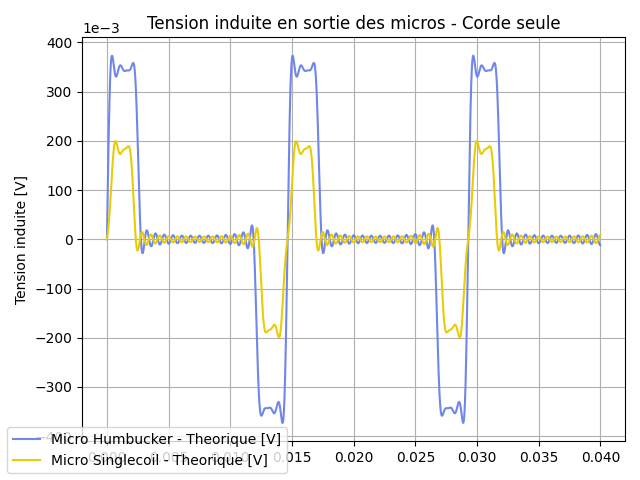
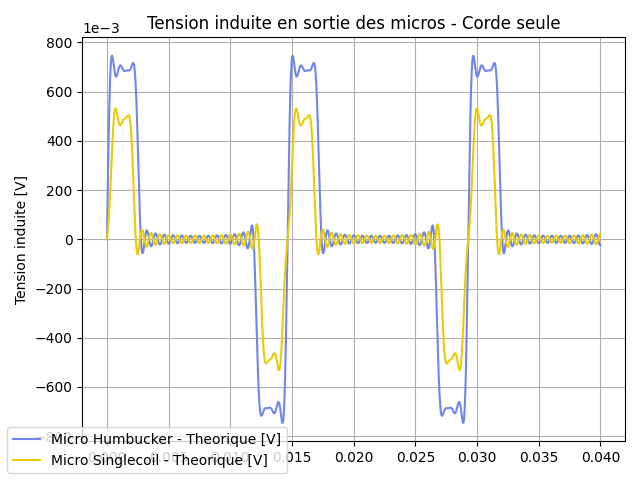
20 11 3

diff --git a/Python/Code/Modele_fem.py b/Python/Code/Modele_fem.py
@@ -37,24 +37,30 @@ S = 7*10**(-4)
 RCC_s = 8.92*10**3      #A verifier ???
 lmoy_s = 0.147
 N_s = int(RCC_s*np.pi*d**2 / (4*rho*lmoy_s))
-N_s = 3000
+N_s = 8000
 #* Parametre Micro Humbucker
 RCC_h = 4.52*10**3
 lmoy_h = lmoy_s            #A verifier ???
-N_h = int(RCC_h*np.pi*d**2 / (8*rho*lmoy_h)) 
+N_h = 2*int(RCC_h*np.pi*d**2 / (8*rho*lmoy_h)) 
 #* Parametre Champ parasite
 Nbob = 95
 R = 0.130/2
-Lbob = 1           #A verifier ???
+Lbob = 1                #A verifier ???
 Rbob = 10               #A verifier ???
 fB = 50
 U0 = 10
-B0 = (0.8)**1.5 * (mu0*Nbob/R) * (U0/np.sqrt(Rbob**2 + (2*np.pi*fB*Lbob)**2))   #= +- 20 micro T
+I0 = 7                  #A verifier ???
 #* Parametre variable
 A = 35*10**(-4)          #A verifier ???
 x0 = 0.140
 F = 68.3
 T = 4*mu*(L*F)**2
+#* Couleurs graphiques
+Color_c = "#505050"
+Color_h_test = "#3344CB"
+Color_s_test = "#CAA307"
+Color_h = "#7086EA"
+Color_s = "#EACB07"
 
 # Affichage des variables avec unites
 print("Constantes initialisees.")
@@ -82,7 +88,7 @@ params = [
     ("Rbob", Rbob, "Ohm", "Resistance bobines Helmholtz"),
     ("fB", fB, "Hz", "Frequence du champ parasite"),
     ("U0", U0, "V", "Tension bobines Helmholtz"),
-    ("B0", B0, "T", "Amplitude champ magnetique parasite"),
+    #("B0", B0, "T", "Amplitude champ magnetique parasite"),
     ("A", A, "m", "Amplitude initiale de vibration"),
     ("x0", x0, "m", "Origine de la perturbation"),
     ("F", F, "Hz", "Frequence de la note jouee"),
@@ -149,30 +155,30 @@ def fem_humbucker(n: int, N: int, x1: float, x2: float, t: np.ndarray) -> np.nda
 
     return N*S*dBdy*s
 
-def B(r:float, f: float, t: np.ndarray) -> np.ndarray:
-    return B0*np.sin(2*np.pi*f*t)
+def B(x:float, f: float, t: np.ndarray) -> np.ndarray:
+    return (Nbob*mu0*Rbob**2)/2 * (1 / (Rbob**2 + (x-Rbob/2)**2)**(3/2) + 1 / (Rbob**2 + (x+Rbob/2)**2)**(3/2)) * I0 * np.sin(2*np.pi*f*t)
 
-def dBdt(r:float, f: float, t: np.ndarray) -> np.ndarray:
-    return B0*2*np.pi*f*np.cos(2*np.pi*f*t)
+def dBdt(x:float, f: float, t: np.ndarray) -> np.ndarray:
+    return (Nbob*mu0*Rbob**2)/2 * (1 / (Rbob**2 + (x-Rbob/2)**2)**(3/2) + 1 / (Rbob**2 + (x+Rbob/2)**2)**(3/2))*2*I0*np.pi*f*np.cos(2*np.pi*f*t)
 
 def fem_par_s(N:int, xm: float, f:float, t: np.ndarray) -> np.ndarray:
     return -N*S*dBdt(0, f, t)
 
 def fem_par_h(N:int, x1: float, x2: float, f:float, t: np.ndarray) -> np.ndarray:
-    return -N*S*(dBdt(x1, f, t) - dBdt(x2, f, t))
+    return -N*S*(dBdt(0, f, t) - dBdt(abs(x2-x1), f, t))
 
                                             #!######################!#
                                             #!       Resultats      !#
                                             #!######################!#
-Color_c = "#505050"
-Color_h_test = "#3344CB"
-Color_s_test = "#CAA307"
-
-Color_h = "#7086EA"
-Color_s = "#EACB07"
 
 if __name__ == "__main__":
     print("Lecture des donnees de test...")
+
+    List_Ipar = np.linspace(1, 7, 7)
+    List_amp_h_th = np.zeros(7)
+    List_amp_h_test = [0, 40*10**-3, 0, 0, 0, 0, 0]
+    List_amp_s_th = [(N_s*S*Nbob*mu0*Rbob**2)/2 * (1 / (Rbob**2 + (0-Rbob/2)**2)**(3/2) + 1/(Rbob**2 + (0+Rbob/2)**2)**(3/2))*2*i*np.pi*fB for i in List_Ipar]
+    Liste_amp_s_test = [N_h*S* (((Nbob*mu0*Rbob**2)/2 * (1 / (Rbob**2 + (0-Rbob/2)**2)**(3/2) + 1/(Rbob**2 + (0+Rbob/2)**2)**(3/2))) - ((Nbob*mu0*Rbob**2)/2 * (1 / (Rbob**2 + (abs(x2-x1)-Rbob/2)**2)**(3/2) + 1/(Rbob**2 + ((x2-x1)+Rbob/2)**2)**(3/2))))*2*i*np.pi*fB for i in List_Ipar]
 
     doc = open("Test/17-11-2025/Test final/Humbucker_corde.txt")
     L_lignes = doc.readlines()
@@ -229,11 +235,6 @@ if __name__ == "__main__":
     doc.close()
     print("Donnees de test Humbucker parasite + corde lues.")
     
-    List_Par = np.linspace(0, 150*10**-6, 15)
-    List_amp_h_th = np.zeros(15)
-    List_amp_h_test = [0, 40*10**-3, 0, 0, 0, 0, 0, 0, 0, 0, 0, 0, 0, 0, 0]
-    List_amp_s_th = [N_s*S*2*np.pi*fB*i for i in List_Par]
-    Liste_amp_s_test = np.zeros(15)
     
 
 print("-" * 100)
@@ -417,7 +418,7 @@ if __name__ == "__main__":
     plt.title("Tension induite en sortie des micros - Parasite seul")
     plt.xlabel("Temps [s]")
     plt.ylabel("Tension [V]")
-    #plt.ylim(-0.5, 0.5)
+    plt.ylim(-0.5, 0.5)
     plt.grid()
     plt.legend()
     plt.savefig("Python/Exports/02-Humbucker_parasite.png")
@@ -487,14 +488,14 @@ if __name__ == "__main__":
 
     #* --- Droite champ parasite ---*#
     print("Comparaison des micros champ parasite...")
-    plt.plot(List_Par, List_amp_h_th, color=Color_h, label="Micro Humbucker - Theorique [V]")
-    plt.plot(List_Par, List_amp_h_test, "+", color=Color_h_test, label="Micro Humbucker - Test [V]")
-    plt.plot(List_Par, List_amp_s_th, color=Color_s, label="Micro Singlecoil - Theorique [V]")
-    plt.plot(List_Par, Liste_amp_s_test, "+", color=Color_s_test, label="Micro Singlecoil - Test [V]")
-    plt.gca().ticklabel_format(axis='x', style='sci', scilimits=(-6, -6))
+    plt.plot(List_Ipar, List_amp_h_th, color=Color_h, label="Micro Humbucker - Theorique [V]")
+    plt.plot(List_Ipar, List_amp_h_test, "+", color=Color_h_test, label="Micro Humbucker - Test [V]")
+    plt.plot(List_Ipar, List_amp_s_th, color=Color_s, label="Micro Singlecoil - Theorique [V]")
+    plt.plot(List_Ipar, Liste_amp_s_test, "+", color=Color_s_test, label="Micro Singlecoil - Test [V]")
+    #plt.gca().ticklabel_format(axis='x', style='sci', scilimits=(-6, -6))
     plt.gca().ticklabel_format(axis='y', style='sci', scilimits=(-3, -3))
     plt.title("Amplitude des tension induite en sortie des micros soumis à un champ parasite")
-    plt.xlabel("Amplitude du champ parasite [T]")
+    plt.xlabel("Amplitude du champ parasite [A]")
     plt.ylabel("Ampltitude Tension [V]")
     plt.grid()
     plt.legend()
